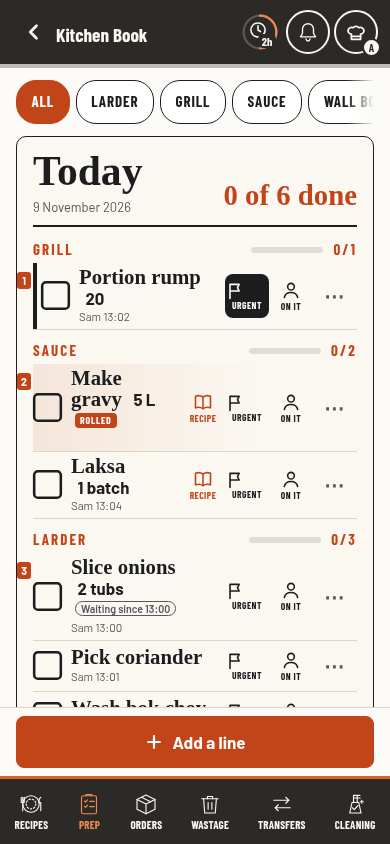
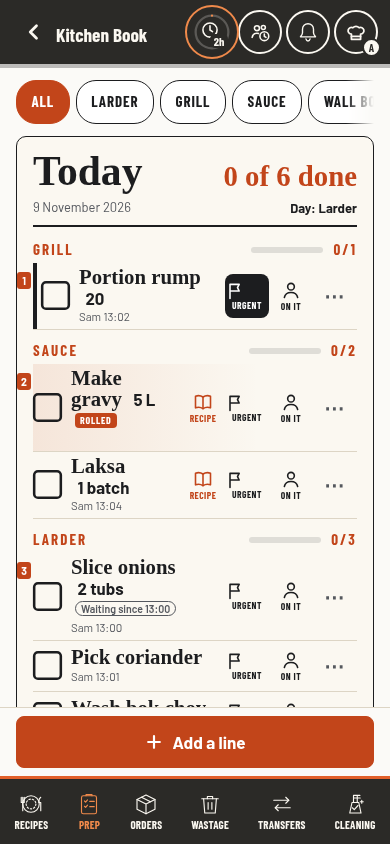
Keep the Operandio clock compact beside the full team header

Changed region(s): [[0.5538, 0.1848, 0.9231, 0.2773], [0.4615, 0.0, 0.7385, 0.0924]]

diff --git a/tests/cooling-motion.test.js b/tests/cooling-motion.test.js
@@ -2,6 +2,12 @@
 const L = require('./lib');
 const { R, ok } = L.results();
 const CURRENT = ['kitchens', L.PIN, 'cooling', 'current'].join('/'), HOUR = 3600000;
+const CONFIG = ['kitchens', L.PIN, 'config', 'main'].join('/'), DAY = L.ymd(new Date(L.NOW));
+// Keep the real fourth header control present through both stages, with Cleaning's sixth page tab enabled.
+const team = {
+  [CONFIG]: { ...L.seed()[CONFIG], staffIds: ['sam', 'ann', 'bo'], kitSecs: [{ id: 'larder', name: 'Larder', off: false }], kitShifts: [{ id: 'day', name: 'Day', from: 600, to: 1320, off: false }] },
+  [['kitchens', L.PIN, 'team', DAY].join('/')]: { day: DAY, v: 1, by: 'sam', at: L.NOW - HOUR, upd: L.NOW - HOUR, on: [{ id: 'ann', sh: 'day', sec: 'larder' }], br: [] }
+};
 const millis = value => value && (value.__fakeTimestamp != null ? value.__fakeTimestamp : value.seconds * 1000 + (value.nanoseconds || 0) / 1000000);
 const saved = p => p.evaluate(path => __fake.dump()[path], CURRENT);
 const writes = p => p.evaluate(path => __fake.writes.flat().filter(x => x.path === path), CURRENT);
@@ -31,12 +37,17 @@ async function shape(p) {
     const control = [...document.querySelectorAll('.cooling-clock button, .cooling-clock-status')].find(el => getComputedStyle(el).visibility !== 'hidden' && !el.hidden && el.getClientRects().length);
     const nav = document.querySelector('.tabbar'), limit = nav && nav.getBoundingClientRect().height ? nav.getBoundingClientRect().top : innerHeight;
     return { control: rect(control), header: rect(document.querySelector('.wtop')), brand: rect(document.querySelector('.wtop-brand')),
-      peers: [...document.querySelectorAll('.wtop-back, .wtop .tm-slot, .wtop .nbell, .wtop .wtop-who')].map(rect),
+      peers: [...document.querySelectorAll('.wtop-back, .wtop .tm-slot .tm-chip, .wtop .nbell, .wtop .wtop-who')].filter(el => el.getClientRects().length).map(rect),
+      tabs: [...document.querySelectorAll('.wtop .pnav a')].map(rect),
       rows: [...document.querySelectorAll('.nb-row')].map(rect), fullRows: [...document.querySelectorAll('.nb-row')].filter(el => el.getBoundingClientRect().bottom <= limit).length,
       expanded: document.querySelector('.cooling-clock').dataset.clockState, hasDialog: !!document.querySelector('.cooling-wrap') };
   });
 }
-function sameLayout(a, b) { return JSON.stringify([a.header, a.peers, a.rows, a.fullRows]) === JSON.stringify([b.header, b.peers, b.rows, b.fullRows]); }
+function sameLayout(a, b) { return JSON.stringify([a.header, a.peers, a.tabs, a.rows, a.fullRows]) === JSON.stringify([b.header, b.peers, b.tabs, b.rows, b.fullRows]); }
+function controlsFit(a, width) {
+  const controls = [a.control, ...a.peers];
+  return controls.every(r => r[2] >= 44 && r[3] >= 44 && r[0] >= 0 && r[0] + r[2] <= width) && controls.every((r, i) => controls.slice(i + 1).every(s => r[0] + r[2] <= s[0] + .5 || s[0] + s[2] <= r[0] + .5));
+}
 (async () => {
   const browser = await L.start(); let p;
   async function step(label, fn) {
@@ -45,18 +56,21 @@ function sameLayout(a, b) { return JSON.stringify([a.header, a.peers, a.rows, a.
     finally { if (p) { ok(!p.errors.length, label + ': no browser errors ' + p.errors.join(' | ')); await p.context().close(); p = null; } }
   }
   try {
-    for (const width of [390, 768, 1280]) await step('clock states ' + width, async () => {
-      p = await L.open(browser, '#/prep', { who: 'ann', width, deviceMode: 'personal', wait: 1200 }); await phase(p, 'idle');
+    for (const width of [390, 768, 1200, 1280]) await step('clock states ' + width, async () => {
+      p = await L.open(browser, '#/prep', { who: 'ann', width, deviceMode: 'personal', extra: team, wait: 1200 }); await phase(p, 'idle');
+      await L.waitFor(p, () => !!document.querySelector('.wtop .tm-slot .tm-chip'));
       const realFonts = await fonts(p); await L.settle(p, 400);
       if (!realFonts) ok(true, width + ': real Barlow unavailable; width-sensitive navigation checks skipped');
-      const baseline = await shape(p), mobile = width < 1100;
+      const baseline = await shape(p), mobile = width < 1280;
       ok(baseline.control[2] === 44 && baseline.control[3] === 44, width + ': idle clock has a 44px target');
+      ok(await p.locator('.wtop .tm-slot .tm-chip').isVisible() && controlsFit(baseline, width), width + ': clock, Team, bell and chef controls fit together without overlap');
+      if (realFonts && width >= 720) ok(baseline.tabs.length === 6 && baseline.tabs.every(r => r[1] === baseline.tabs[0][1] && r[3] === 44), width + ': all six page tabs stay on one row with Team and the clock in Barlow ' + JSON.stringify(baseline.tabs));
       await p.locator('button[data-cooling="clock"]').evaluate(el => { window.__clockButton = el; });
       await clockTap(p); await phase(p, 'armed');
       let drawn = await shape(p);
       ok((await writes(p)).length === 0 && !drawn.hasDialog, width + ': first tap only reveals Start in place, with no write or dropdown');
       ok(drawn.control[2] === (mobile ? 44 : 152) && drawn.control[3] === 44, width + ': armed control keeps the chosen phone circle or desktop pill');
-      ok(sameLayout(baseline, drawn), width + ': arming leaves the header, peers and prep lines still');
+      ok(sameLayout(baseline, drawn) && controlsFit(drawn, width), width + ': arming leaves the header, peers and prep lines still without overlap');
       if (mobile) ok(JSON.stringify(baseline.brand) === JSON.stringify(drawn.brand) && await p.locator('.wtop-brand').evaluate(el => getComputedStyle(el).opacity === '1'), width + ': mobile brand is never displaced or faded');
       await p.keyboard.press('Escape'); await phase(p, 'idle');
       ok((await writes(p)).length === 0, width + ': Escape disarms without starting a batch');
@@ -73,7 +87,7 @@ function sameLayout(a, b) { return JSON.stringify([a.header, a.peers, a.rows, a.
       const first = await saved(p), firstAt = millis(first.firstAt), firstDue = firstAt + 2 * HOUR;
       ok(first.rev === 1 && first.secondAt === 0 && await p.locator('button[data-cooling="clock"]:visible').count() === 0 && await p.locator('.cooling-clock-status').getAttribute('aria-live') === 'off', width + ': accepted running timer is read-only and does not announce every countdown tick');
       drawn = await shape(p);
-      ok(drawn.control[2] === (mobile ? 44 : 152) && sameLayout(baseline, drawn), width + ': running has the selected footprint without moving list lines');
+      ok(drawn.control[2] === (mobile ? 44 : 152) && sameLayout(baseline, drawn) && controlsFit(drawn, width), width + ': running has the selected footprint without moving list lines or overlapping Team');
       const beforeProgress = await p.locator('.cooling-clock-status').innerHTML();
       await advance(p, firstAt + HOUR); await phase(p, 'first');
       ok(await p.locator('.cooling-clock-status').innerHTML() !== beforeProgress && (await writes(p)).length === 1, width + ': the ring/countdown advances locally without more shared writes');
@@ -97,7 +111,7 @@ function sameLayout(a, b) { return JSON.stringify([a.header, a.peers, a.rows, a.
       await advance(p, firstDue + HOUR); await phase(p, 'done1');
       ok((await saved(p)).secondAt === 0 && (await writes(p)).length === 1 && await p.evaluate(() => __coolingSounds === 1), width + ': waiting an extra hour never starts four hours or repeats the alert');
       drawn = await shape(p);
-      ok(drawn.control[2] === (mobile ? 44 : 152) && drawn.control[3] === 44 && sameLayout(baseline, drawn), width + ': green first completion retains its footprint and prep positions');
+      ok(drawn.control[2] === (mobile ? 44 : 152) && drawn.control[3] === 44 && sameLayout(baseline, drawn) && controlsFit(drawn, width), width + ': green first completion retains its footprint, Team control and prep positions');
       ok(/Start.*4.hour/i.test(await p.locator('button[data-cooling="clock"]').getAttribute('aria-label')), width + ': the green action names the separate four-hour start');
       await clockTap(p); await phase(p, 'second');
       const second = await saved(p), secondAt = millis(second.secondAt);

diff --git a/tests/todays-team.test.js b/tests/todays-team.test.js
@@ -321,15 +321,16 @@ const linesSeen = p => p.evaluate(() => { const bar = document.querySelector('.n
   // and laptops show (the saved copy keeps it): the tests stand Google Fonts in with nothing, and the stand-in fonts differ
   // from machine to machine (wider on GitHub's runner, 7 Nov 2026). The same top bar is measured with the chip and
   // without it. If Barlow cannot load here, the check says so and measures nothing.
-  for (const w of [720, 768, 1200, 1280]) {
+  for (const w of [720, 768, 1100, 1200, 1279, 1280]) {
     p = await L.open(b, '#/prep', { who: 'sam', extra: cfg(), width: w, wait: 1500 });
     await p.context().unroute(/fonts\.(googleapis|gstatic)\.com/);
     const css = await p.addStyleTag({ url: 'https://fonts.googleapis.com/css2?family=Barlow:wght@400;600;700&family=Barlow+Condensed:wght@700&display=swap' }).then(() => true, () => false);
     const got = css && await p.evaluate(() => Promise.race([Promise.all(['600 16px Barlow', '700 16px "Barlow Condensed"'].map(f => document.fonts.load(f))).then(r => r.every(x => x.length > 0)), new Promise(r => setTimeout(() => r(false), 8000))]));
     if (!got) { ok(true, 'top bar at ' + w + ' px: Barlow could not load here, the chip and the tabs were not measured'); await p.context().close(); continue; }
+    await p.evaluate(() => document.fonts.ready);
     await L.settle(p, 300);
     const rows = await p.evaluate(() => { const n = document.querySelector('.wtop .pnav'), c = document.querySelector('.wtop .tm-slot .tm-chip'); if (!n || !c) return null; const withChip = n.getBoundingClientRect().height; c.style.display = 'none'; const without = n.getBoundingClientRect().height; c.style.display = ''; return [withChip, without]; });
-    ok(!!rows && Math.abs(rows[0] - rows[1]) < 1, 'top bar at ' + w + ' px, in Barlow: the chip does not wrap the page tabs (' + JSON.stringify(rows) + ')');
+    ok(!!rows && rows.every(height => Math.abs(height - 44) < 1), 'top bar at ' + w + ' px, in Barlow: the chip keeps the page tabs on one row (' + JSON.stringify(rows) + ')');
     await p.context().close();
   }
 

diff --git a/css/cooling.css b/css/cooling.css
@@ -60,6 +60,7 @@ html.cooling-open, html.cooling-open body { overflow: hidden; }
 /* The existing navigation wrap absorbs a wide fallback font before the title shrinks. */
 @media(min-width:1100px) {
   .wtop:has(.cooling-chip) .wtop-start { flex-shrink: 0; }
+  .wtop:has(.cooling-clock) .pnav a { padding-inline: .65rem; }
 }
 
 .cooling-slot:empty { display: none; }
@@ -105,9 +106,9 @@ html.cooling-open, html.cooling-open body { overflow: hidden; }
 .cooling-clock[data-clock-state="armed"] .cooling-clock-play,
 .cooling-clock:is([data-clock-state="pending"],[data-clock-state="checking"]) .cooling-clock-wait,
 .cooling-clock[data-clock-state="error"] .cooling-clock-alert { display: block; }
-@media(min-width:1100px) {
+/* The full title, six tabs and four controls fit the countdown pill from 1280px. */
+@media(min-width:1280px) {
   .cooling-clock { flex-basis: 152px; width: 152px; }
-  .wtop:has(.cooling-clock) .pnav a { padding-inline: .65rem; }
   .cooling-clock .cooling-clock-control { transition: width 340ms cubic-bezier(.2,.85,.28,1), border-radius 340ms, background-color 180ms, border-color 180ms; }
   .cooling-clock:not([data-clock-state="idle"]) .cooling-clock-control { width: 152px; border-radius: 22px; }
   .cooling-clock-copy { display: flex; opacity: 0; translate: 5px 0; transition: opacity 160ms, translate 240ms; }

diff --git a/docs/operandio-clock-motion-options/brief.md b/docs/operandio-clock-motion-options/brief.md
@@ -74,13 +74,14 @@ All six flagged the small next-action caption beneath Done. The desktop previews
 
 ## Approved implementation, 9 November 2026
 
-The production clock uses the existing authoritative model and start hooks. Header inserts mount the clock once, then patch its control in place through arming, pending and confirmation. Desktop uses B's filled face and one gentle settle; mobile uses the fixed perimeter ring. The existing details route, personal pings, permissions, recovery and new-batch action remain.
+The production clock uses the existing authoritative model and start hooks. Header inserts mount the clock once, then patch its control in place through arming, pending and confirmation. Desktop uses B's filled face and one gentle settle from 1280px; narrower windows use the fixed perimeter ring. This production breakpoint supersedes the preview's 1100px threshold: with Today's team and all six page tabs present, the earlier threshold wrapped the tabs at 1200px. The final 44px ring or 152px pill keeps the full header in place. The existing details route, personal pings, permissions, recovery and new-batch action remain.
 
 `LK_CHIME.playCooling()` schedules three stronger soft chimes through the existing limiter. `stopCooling()` cancels any remaining or delayed notes. The cooling adapter honours sound Off and stops the sequence when the ping closes or the session changes; the sound module also cancels on hiding or leaving the page. Ordinary ping sounds stay unchanged. No new reads, listeners, fields, permissions, external assets or services.
 
 Production verification uses synthetic kitchen data and does not start a real batch:
 
-- UI: 85 checks; shared-controller integration: 55; real-app motion: 83 with real Barlow fonts; controller: 25 test groups. Covers confirmation before countdown, explicit four-hour start, a new batch, fixed mobile geometry, stable neighbouring controls, route repaint, reduced motion and session lock.
+- UI: 85 checks; shared-controller integration: 55; real-app motion: 115 with real Barlow fonts; controller: 25 test groups. Covers confirmation before countdown, explicit four-hour start, a new batch, fixed mobile geometry, stable neighbouring controls, route repaint, reduced motion and session lock.
+- Full header: the motion fixture keeps Today's team and all six page tabs visible at 390, 768, 1200 and 1280px, while the Team regression also measures 1100 and 1279px. The expanded motion check fails 5 of 115 assertions on the earlier breakpoint and passes all 115 after the fix. Navigation and controls retain their positions through Start, countdown and Done.
 - Competing starts: closing a visible refusal restores the confirmed shared countdown without clearing the controller's error detail. The expanded UI regression fails 7 checks on the previous source and passes all 85 with the fix. A new refusal still appears, and stale or missing shared state stays protected. Independently reviewed in Chromium.
 - Sound: 34 cooling checks plus 34 existing ping-sound checks. A real OfflineAudioContext measured +4.37 dB RMS and +3.06 dB peak against the ordinary chime, with a peak of 0.726 and no clipping. Physical speaker volume still depends on the device; no hardware or Safari interruption claim is made.
 - Actual app screenshots: [desktop Start](implementation/1280-armed.png), [countdown](implementation/1280-first.png), [Done](implementation/1280-done1.png); [mobile Start](implementation/390-armed.png), [ring](implementation/390-first.png), [Done](implementation/390-done1.png).

diff --git a/docs/operandio-cooling.md b/docs/operandio-cooling.md
@@ -15,7 +15,7 @@ Got it dismisses only that person's alert on this device and stops any remaining
 
 Pending feedback appears immediately in the same control. A countdown or confirmed success never appears from a local estimate or an unresolved write. Named failures persist with an explicit retry; uncertain writes are reconciled against the shared record and never silently replayed. The compact details menu remains available through `#/cooling`, existing API calls and error detail. Pings and details retain the existing overlay stack, focus trap, Escape/Back and sheet queue. Pings wait for PIN unlock, typing, Undo and other sheets.
 
-The desktop pill reserves its space so neighbouring controls and the list do not move. Mobile never expands or hides the brand. All action targets remain at least 44px, and reduced motion removes the expansion and gentle settle. Countdown updates are not live announcements; stage changes are announced separately.
+The desktop pill starts at 1280px and reserves its space so neighbouring controls and the list do not move. Narrower windows use the same fixed ring as mobile, keeping all six page tabs and the Today's team, bell and chef controls in place. Mobile never expands or hides the brand. All action targets remain at least 44px, and reduced motion removes the expansion and gentle settle. Countdown updates are not live announcements; stage changes are announced separately.
 
 Each Operandio alert uses three stronger soft chimes, 1.65 seconds apart, through the existing audio limiter. The kitchen's sound Off setting still silences it. Other pings retain their selected single sound. Closing the cooling ping, locking or changing the session, hiding the app or leaving the page cancels remaining cooling notes. There is no new preference or permission. Device volume, silent mode and browser gesture restrictions still apply.
 
